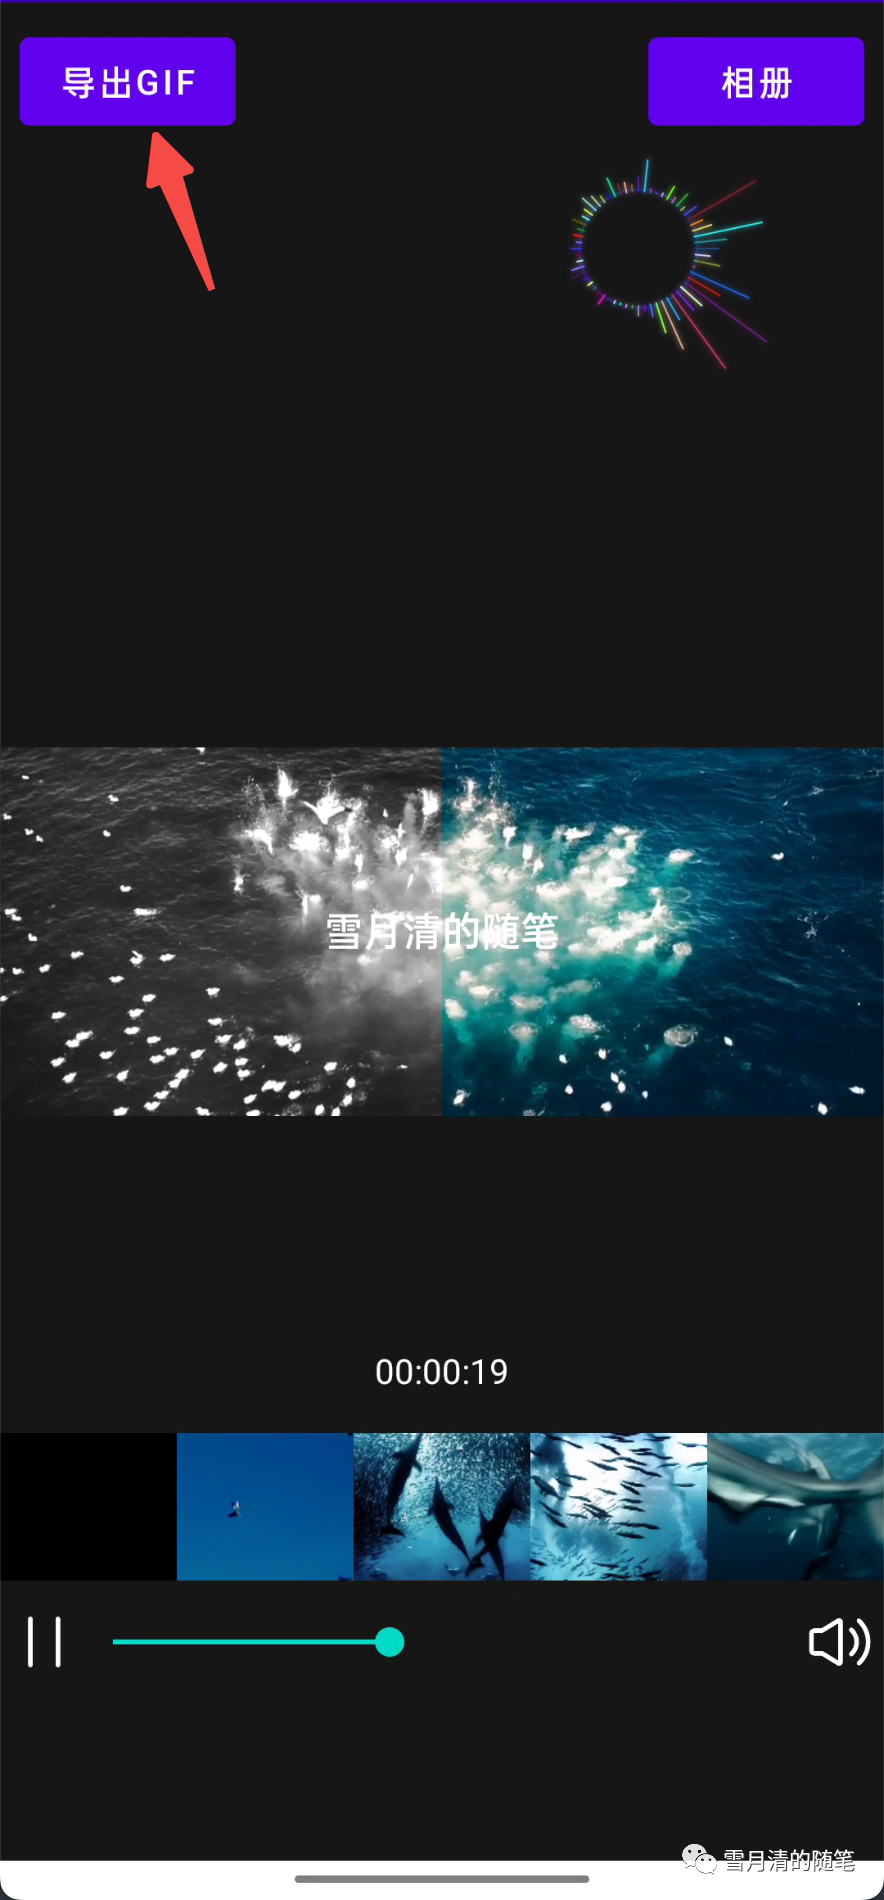
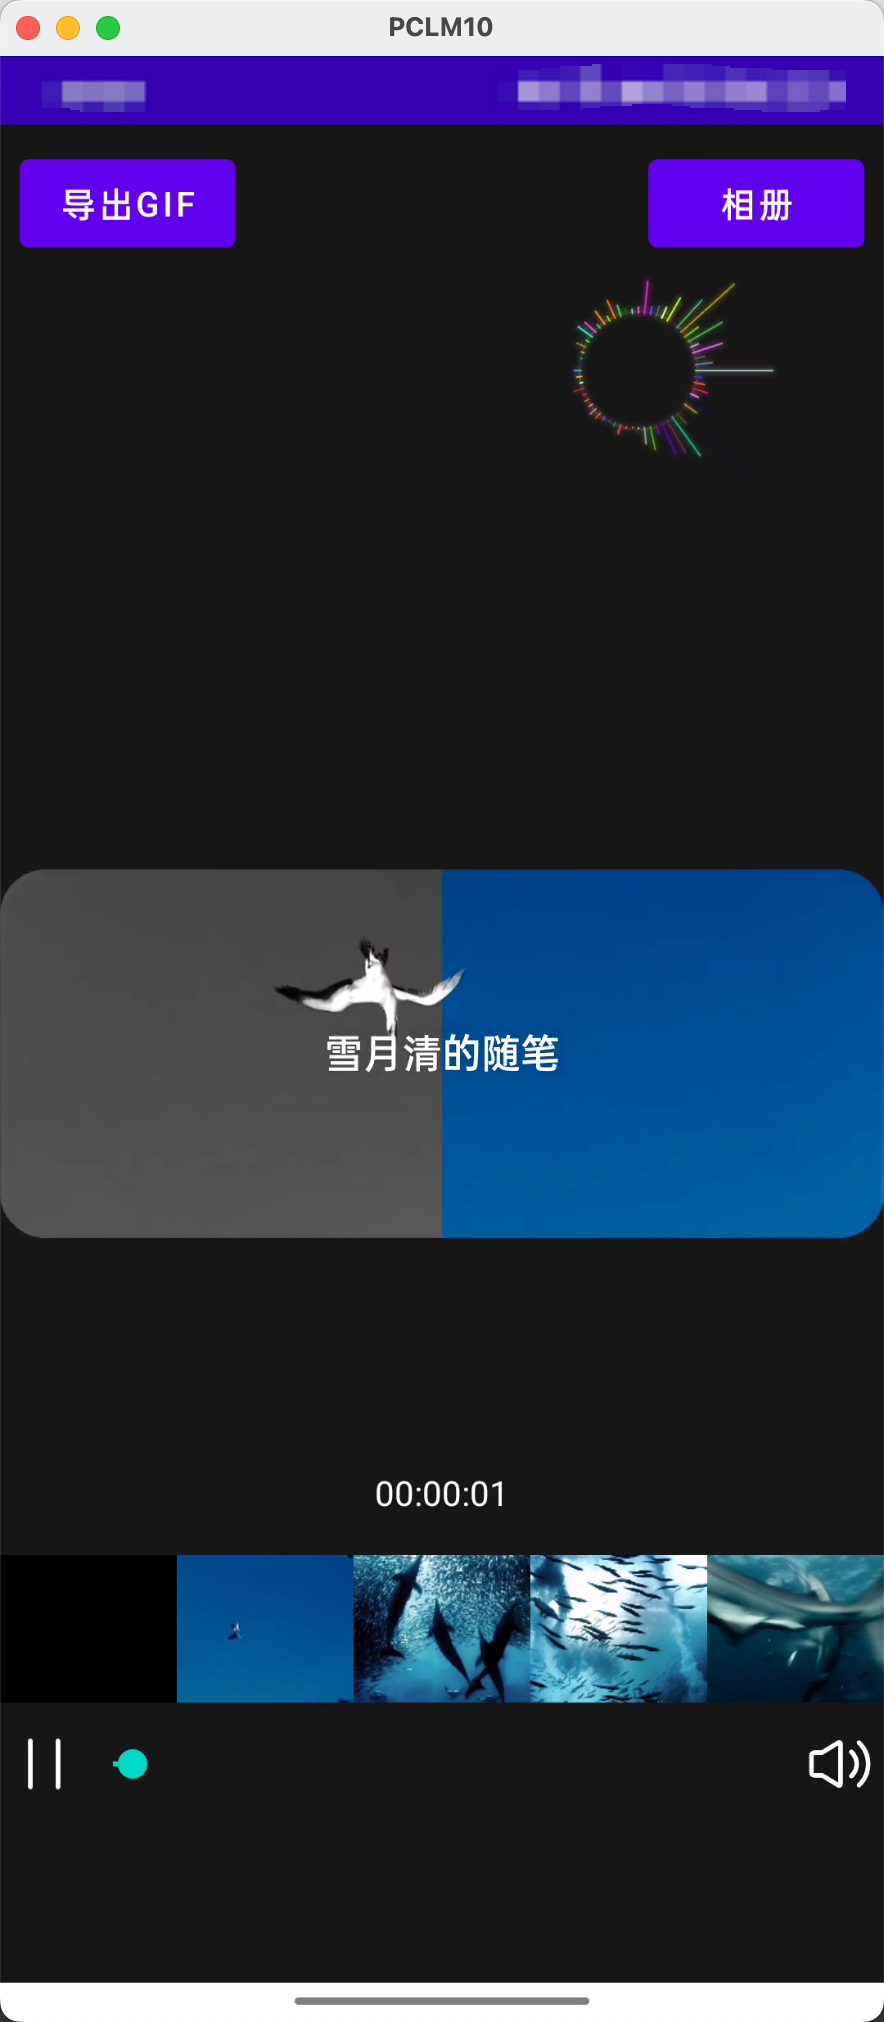
update README

diff --git a/README.md b/README.md
@@ -1,6 +1,8 @@
 # ffmpeg-demo
 
-基于FFMpeg5.0.1版本的学习型Demo
+基于FFMpeg5.0.1版本的学习型Demo，实现了通过FFMpeg提供的硬解和软解两种方式进行音视频文件的渲染和播放
+
+滤镜效果包括：圆角滤镜和灰度滤镜
 
 ![cover](./ffmpeg-demo-cover.png)
 
@@ -39,3 +41,5 @@
 [Android FFmpeg系列11--解码遇到EAGAIN的正确处理姿势](https://mp.weixin.qq.com/s/c7VZ53M9t7rSLoWB5WVIVA)
 
 [Android FFmpeg系列12--导出GIF](https://mp.weixin.qq.com/s/AiTrnUOALXPHvptvMBy0Ag)
+
+[从一个NV12渲染错误的issue说起](https://mp.weixin.qq.com/s/rsZGqKxS-LsPL8M8O537Sw)
